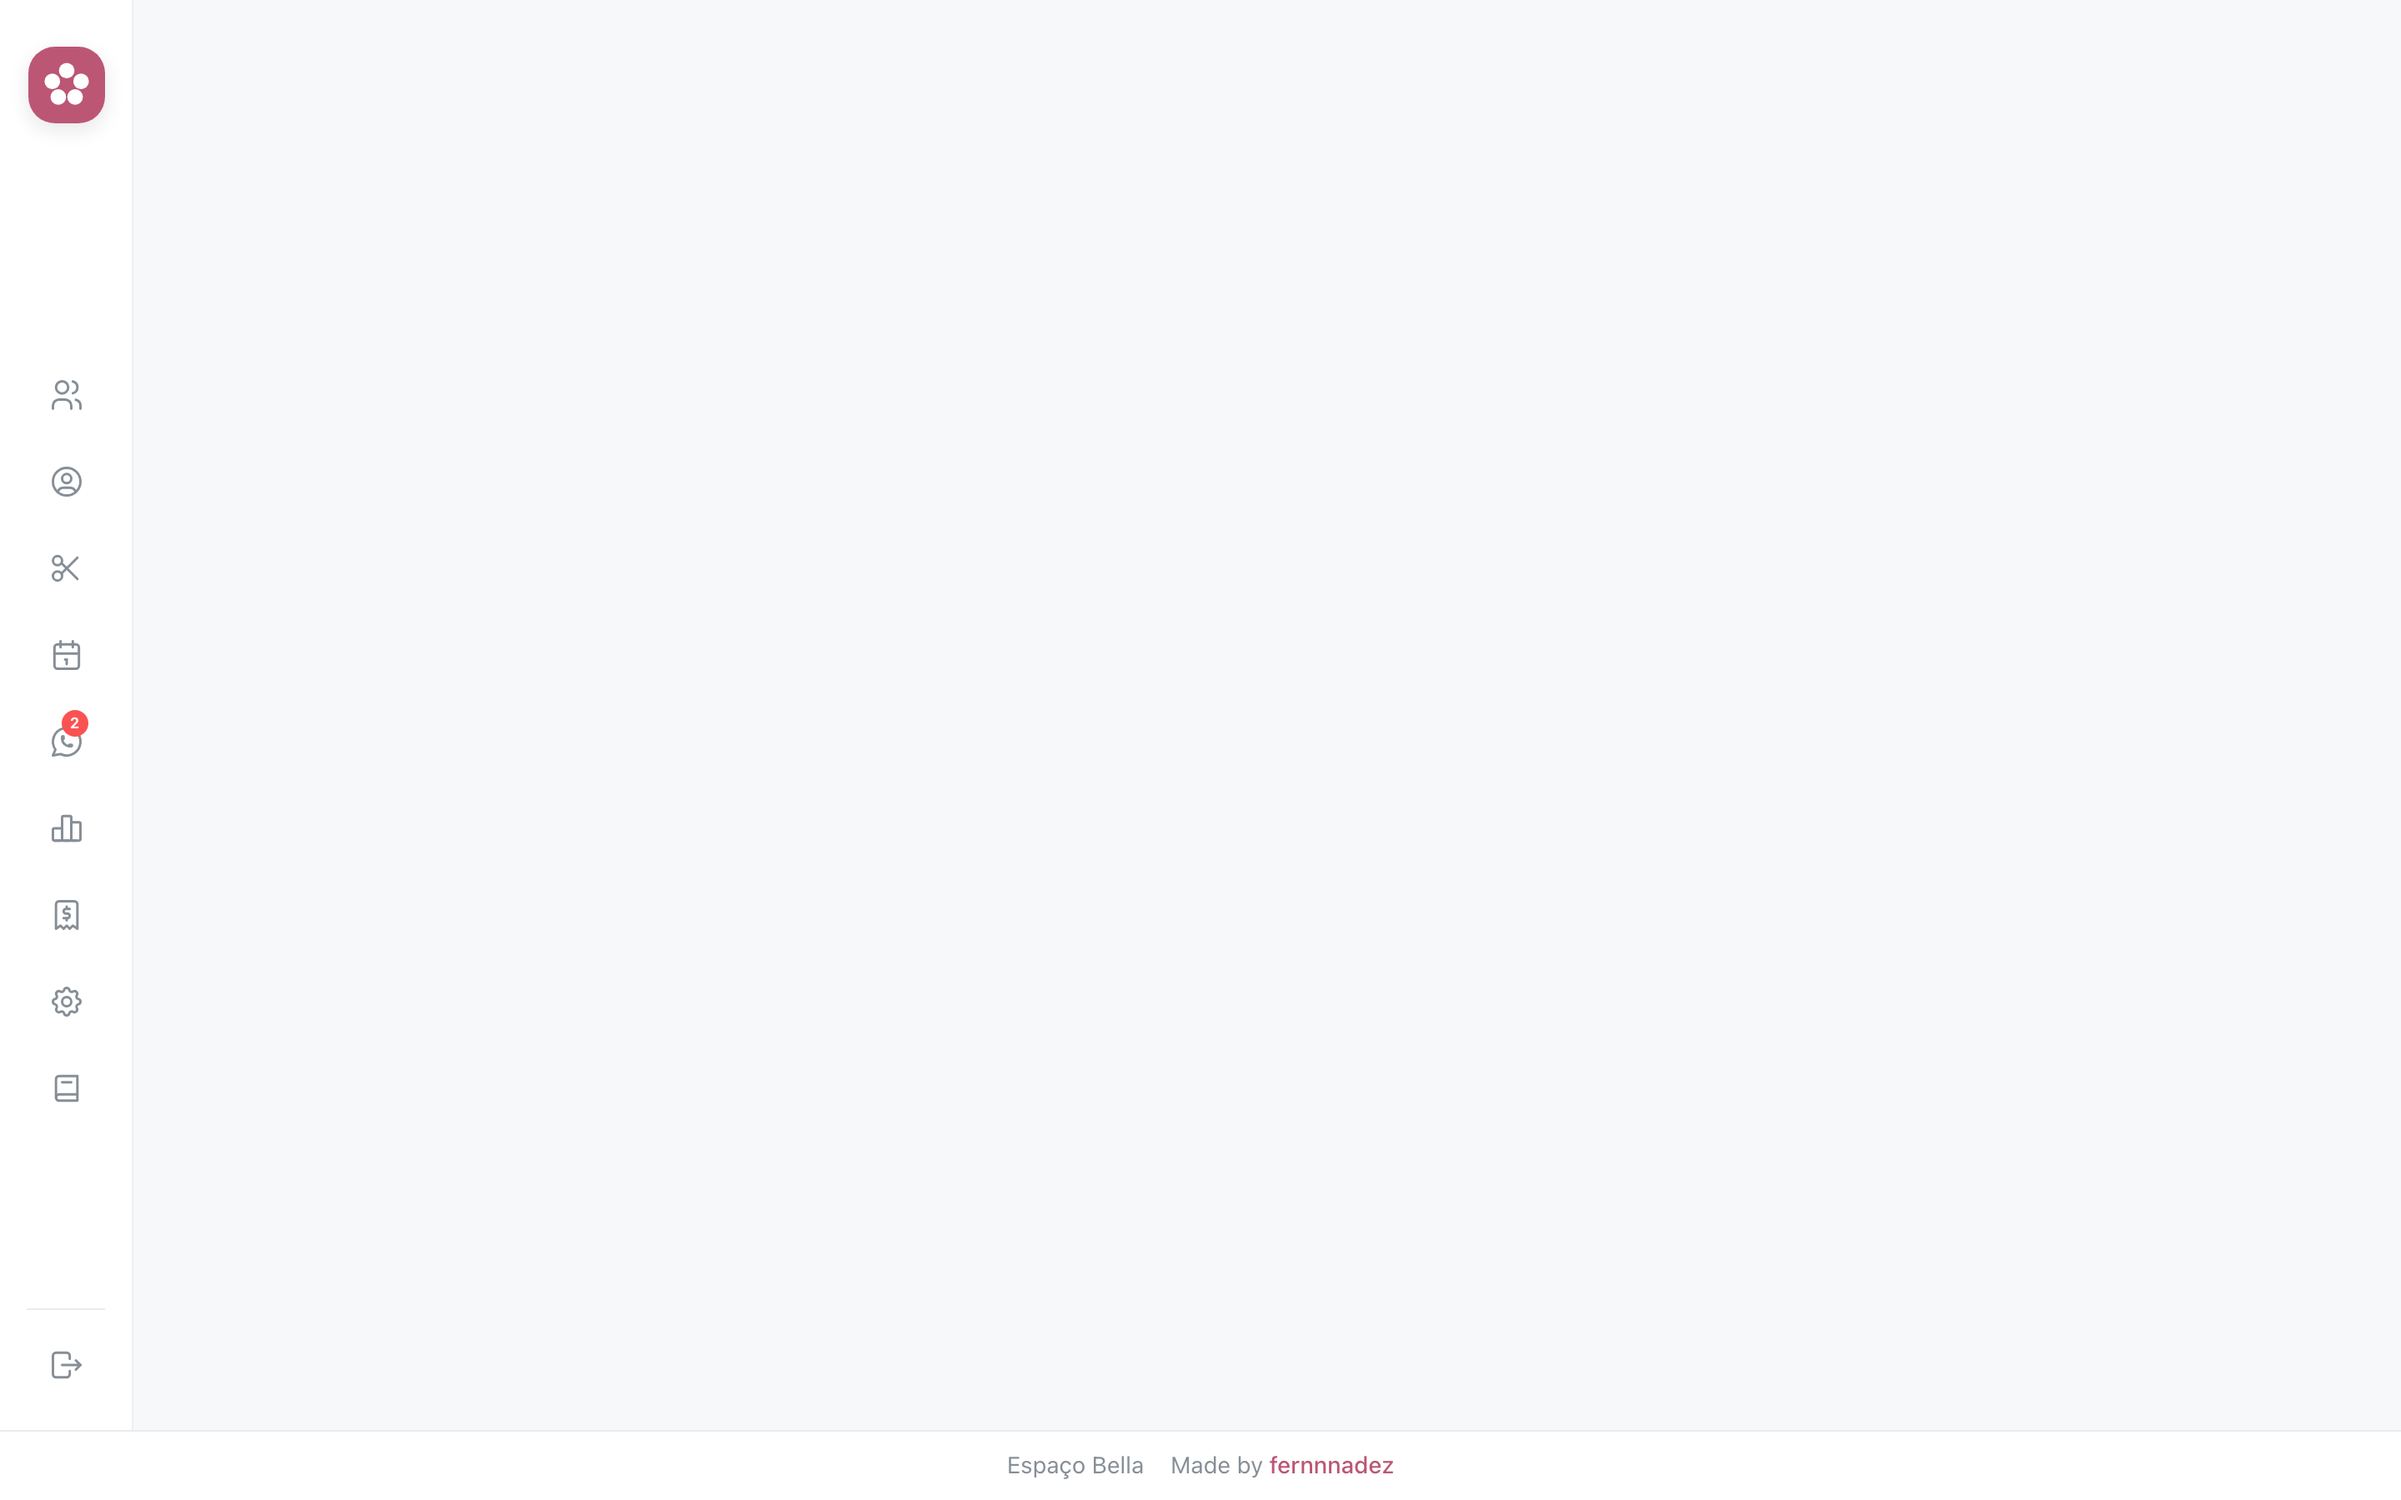
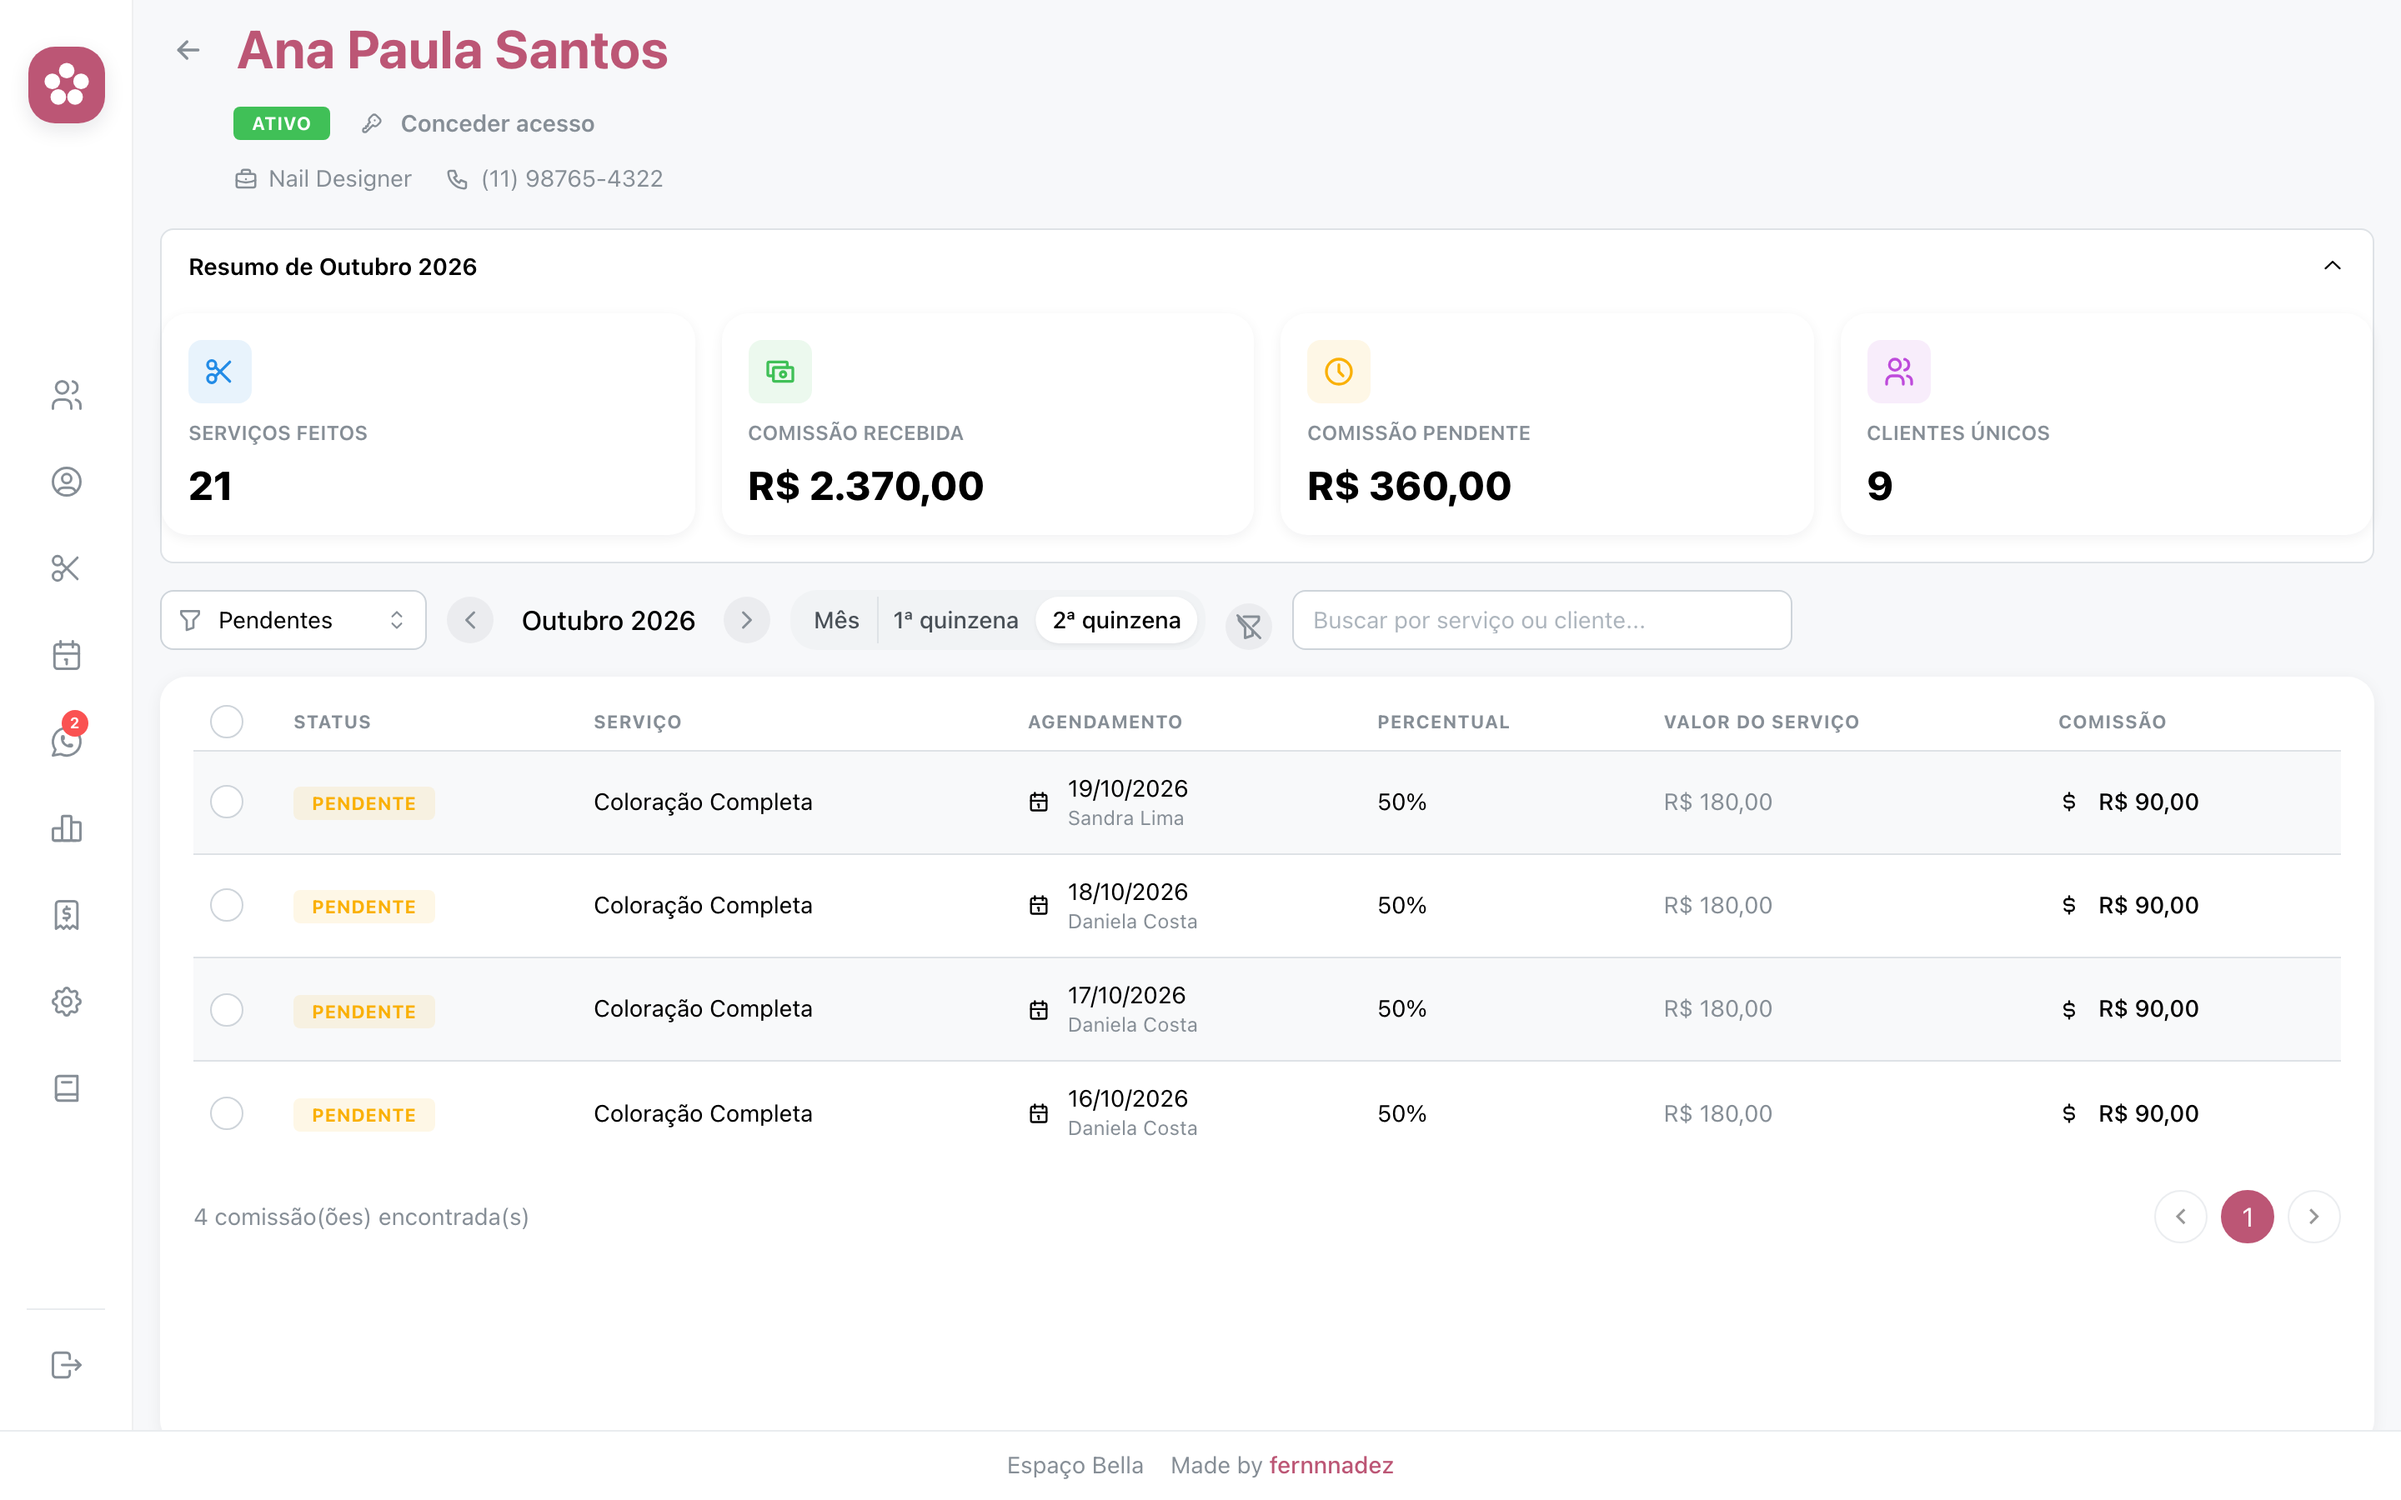
fix(landing): comissão vive no perfil do profissional, não em tela própria
- recaptura comissoes.png a partir de /collaborators/:id (o print antigo estava
  vazio: /commissions não existe mais)
- capture.mjs aponta para o perfil do colaborador
- textos e URLs da apresentação e do Demo ajustados (app.ageendoo.com/collaborators)

diff --git a/landing/src/pages/PresentationPage.tsx b/landing/src/pages/PresentationPage.tsx
@@ -232,16 +232,16 @@ const slides: { id: string; dark?: boolean; content: ReactNode }[] = [
       <FeatureSlide
         n="04"
         tag="Comissões"
-        title="Comissão calculada automaticamente"
-        description="Ao concluir o serviço, a comissão é calculada pelo percentual do profissional. Pagamento em lote e acompanhamento de atrasos."
+        title="Comissão no perfil de cada profissional"
+        description="Cada profissional tem seu resumo de comissões: o que recebeu, o que está pendente e o detalhe por atendimento. Calculada automaticamente ao concluir o serviço."
         bullets={[
-          'Cálculo automático por serviço',
-          'Filtro por período, profissional e status',
+          'Resumo por profissional (recebido e pendente)',
+          'Filtro por mês ou quinzena',
           'Pagamento em lote e alerta de atraso',
         ]}
         img="/demo/comissoes.png"
-        alt="Comissões por colaborador"
-        url="app.ageendoo.com/commissions"
+        alt="Comissões no perfil do profissional"
+        url="app.ageendoo.com/collaborators"
         flip
       />
     ),

diff --git a/landing/src/sections/Demo.tsx b/landing/src/sections/Demo.tsx
@@ -29,17 +29,17 @@ const demos: Demo[] = [
   },
   {
     tag: 'Comissões',
-    title: 'Comissões calculadas automaticamente',
+    title: 'Comissões no perfil de cada profissional',
     description:
-      'Cada serviço concluído gera a comissão pelo percentual do profissional. Filtre por período, colaborador e status, e marque pagamentos em lote.',
+      'Cada profissional tem o resumo das próprias comissões — recebido, pendente e o detalhe por atendimento. Calculada automaticamente ao concluir o serviço.',
     bullets: [
-      'Cálculo automático por percentual',
-      'Totais de pago e pendente sempre à vista',
+      'Resumo por profissional (recebido e pendente)',
+      'Filtro por mês ou quinzena',
       'Pagamento em lote',
     ],
     img: '/demo/comissoes.png',
-    alt: 'Lista de comissões por colaborador',
-    url: 'app.ageendoo.com/commissions',
+    alt: 'Comissões no perfil do profissional',
+    url: 'app.ageendoo.com/collaborators',
   },
   {
     tag: 'Financeiro',
